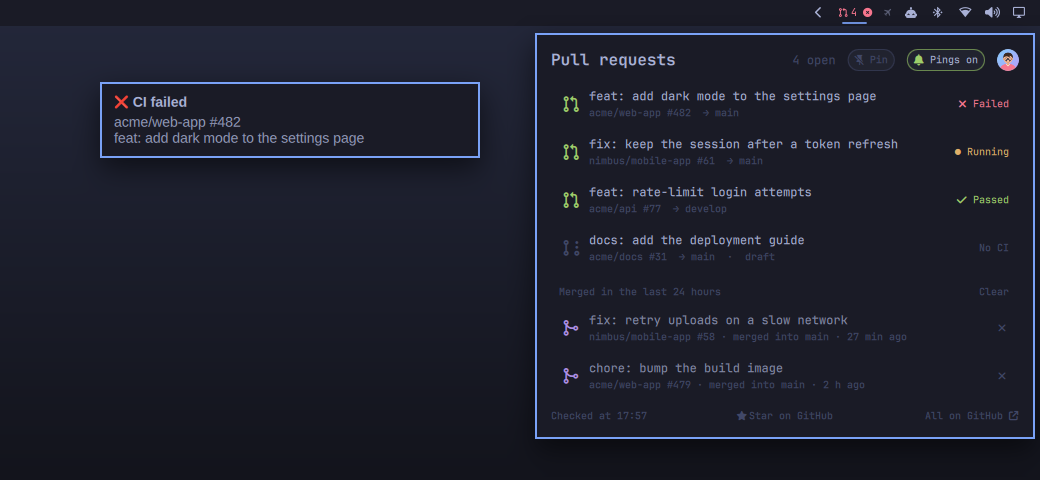
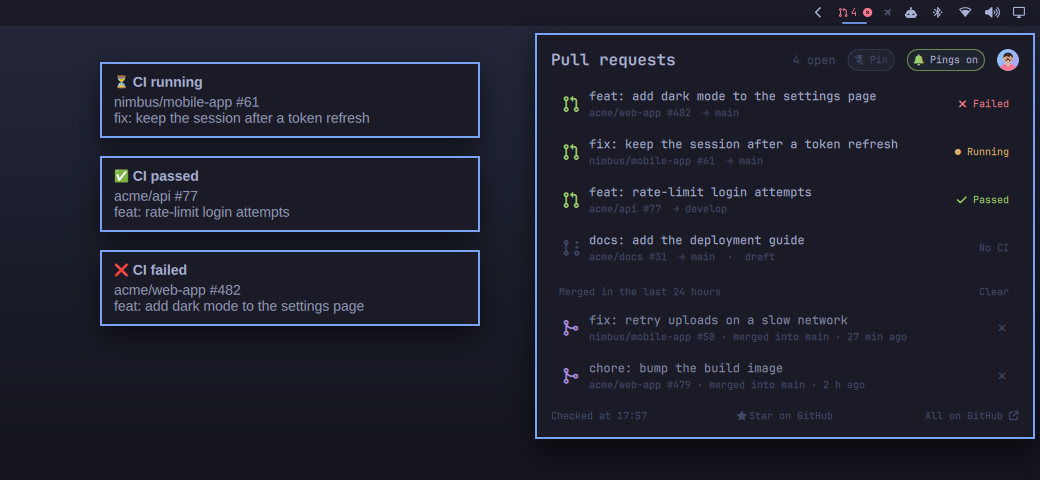
docs: show all three pings in the preview image
The preview now shows the running, passed and failed pings next to the
panel, each one for a pull request listed in it. All data is made up.

Changed region(s): [[0.0923, 0.3438, 0.4615, 0.6875], [0.0923, 0.125, 0.4615, 0.3125]]

diff --git a/README.md b/README.md
@@ -3,7 +3,7 @@
 An [Omarchy](https://omarchy.org) bar widget that pings you on screen when CI
 starts, passes or fails on any of your open pull requests.
 
-![The CI Ping panel next to a failed CI ping](preview.png)
+![The CI Ping panel next to its three pings: CI running, passed and failed](preview.png)
 
 - **Finds your PRs by itself.** Every open PR you authored, in every repo and
   organization your GitHub account can see. No repo list to keep.
